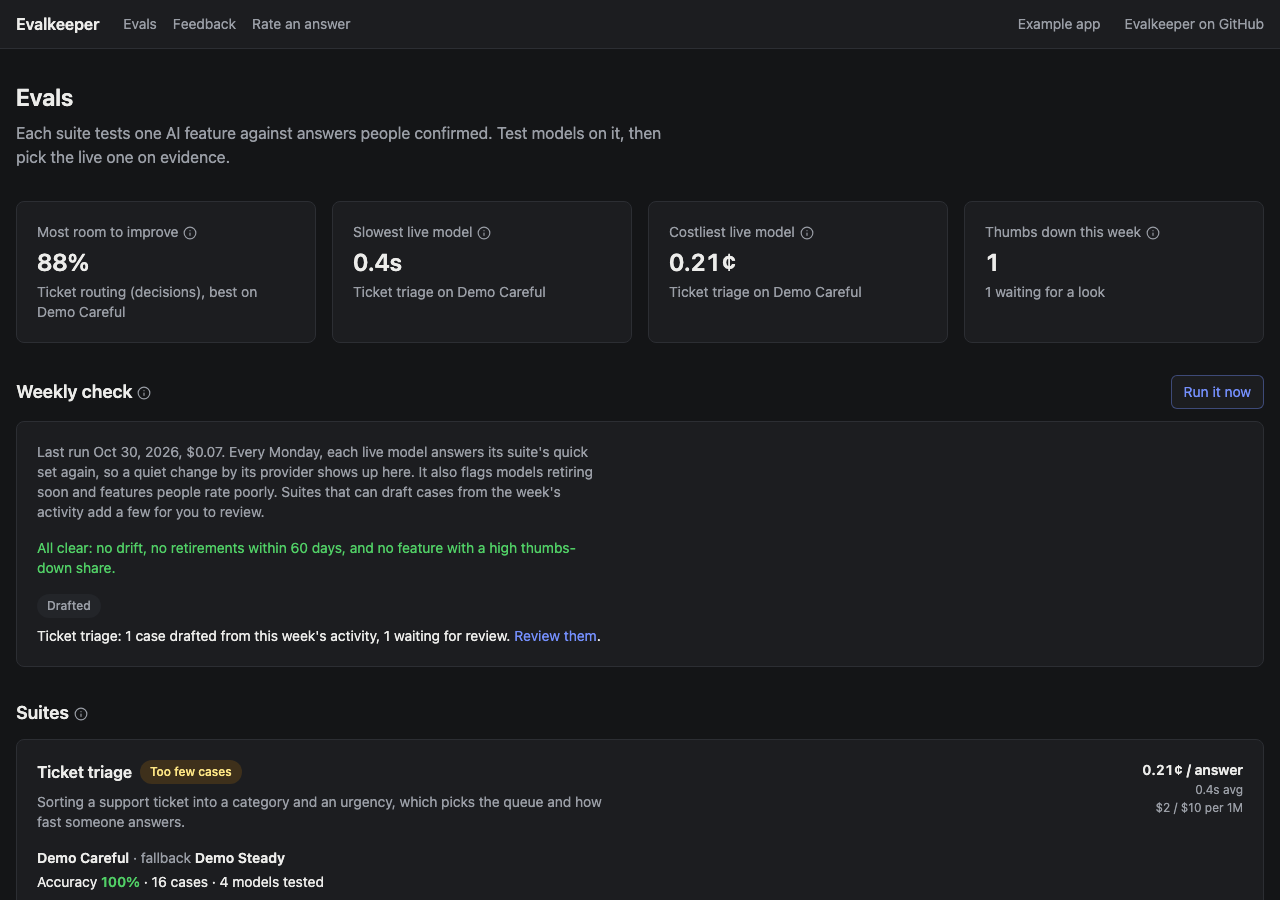
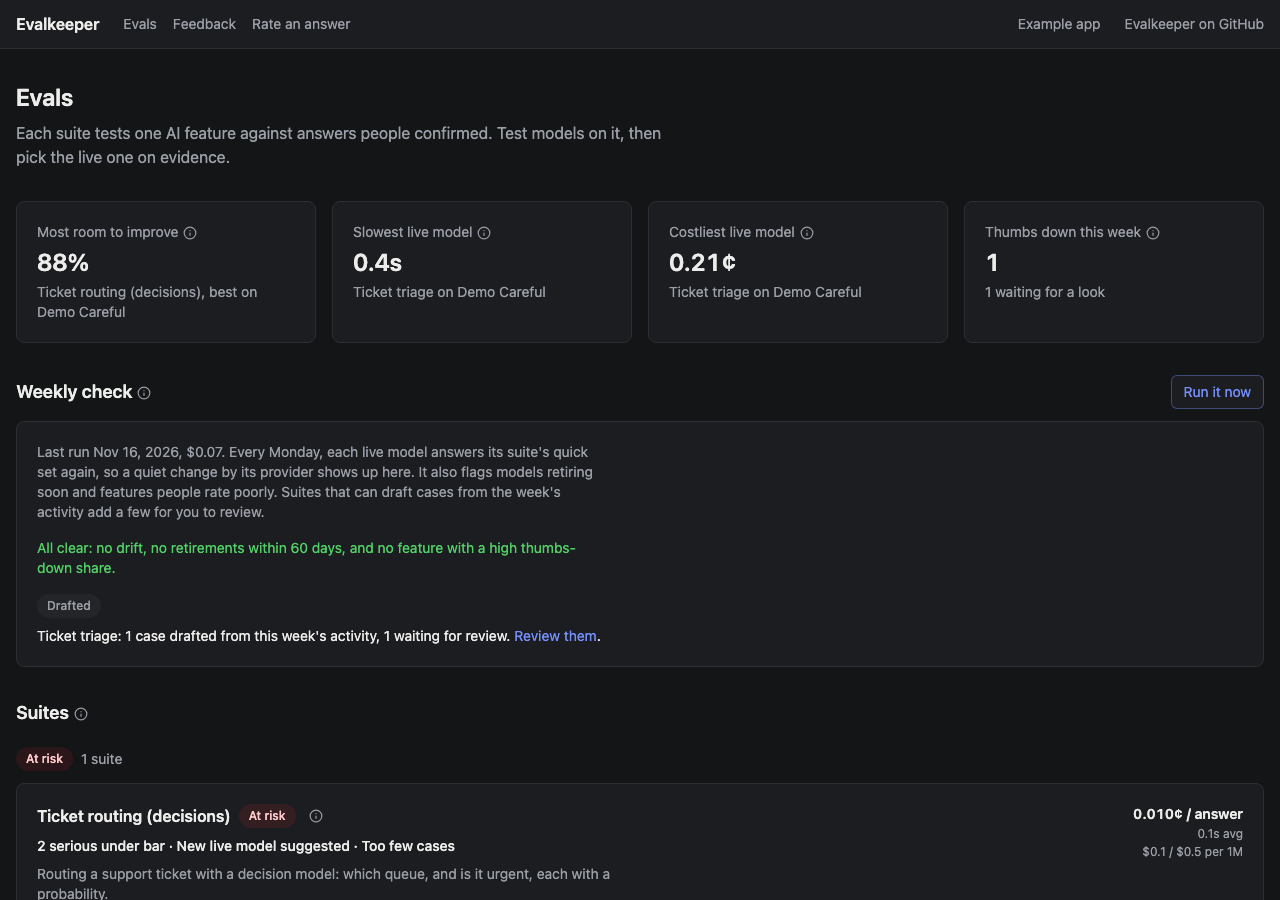
Release 0.16.0

Changed region(s): [[0.0312, 0.84, 0.4688, 1.0], [0.9062, 0.84, 0.9688, 0.9644]]

diff --git a/CHANGELOG.md b/CHANGELOG.md
@@ -5,7 +5,13 @@ Notable changes, newest first. The format follows
 follow [semantic versioning](https://semver.org/): until 1.0, a minor
 version may change an interface, and its entry says how to update.
 
-## Unreleased
+## 0.16.0 - 2026-11-16
+
+The evals hub says where each suite stands in one word and color, with
+what needs you first.
+
+Update: nothing required. `HealthChips` still works on pages of your own;
+the hub uses `StandingBadge` and `HealthReasons` now.
 
 ### Changed
 
